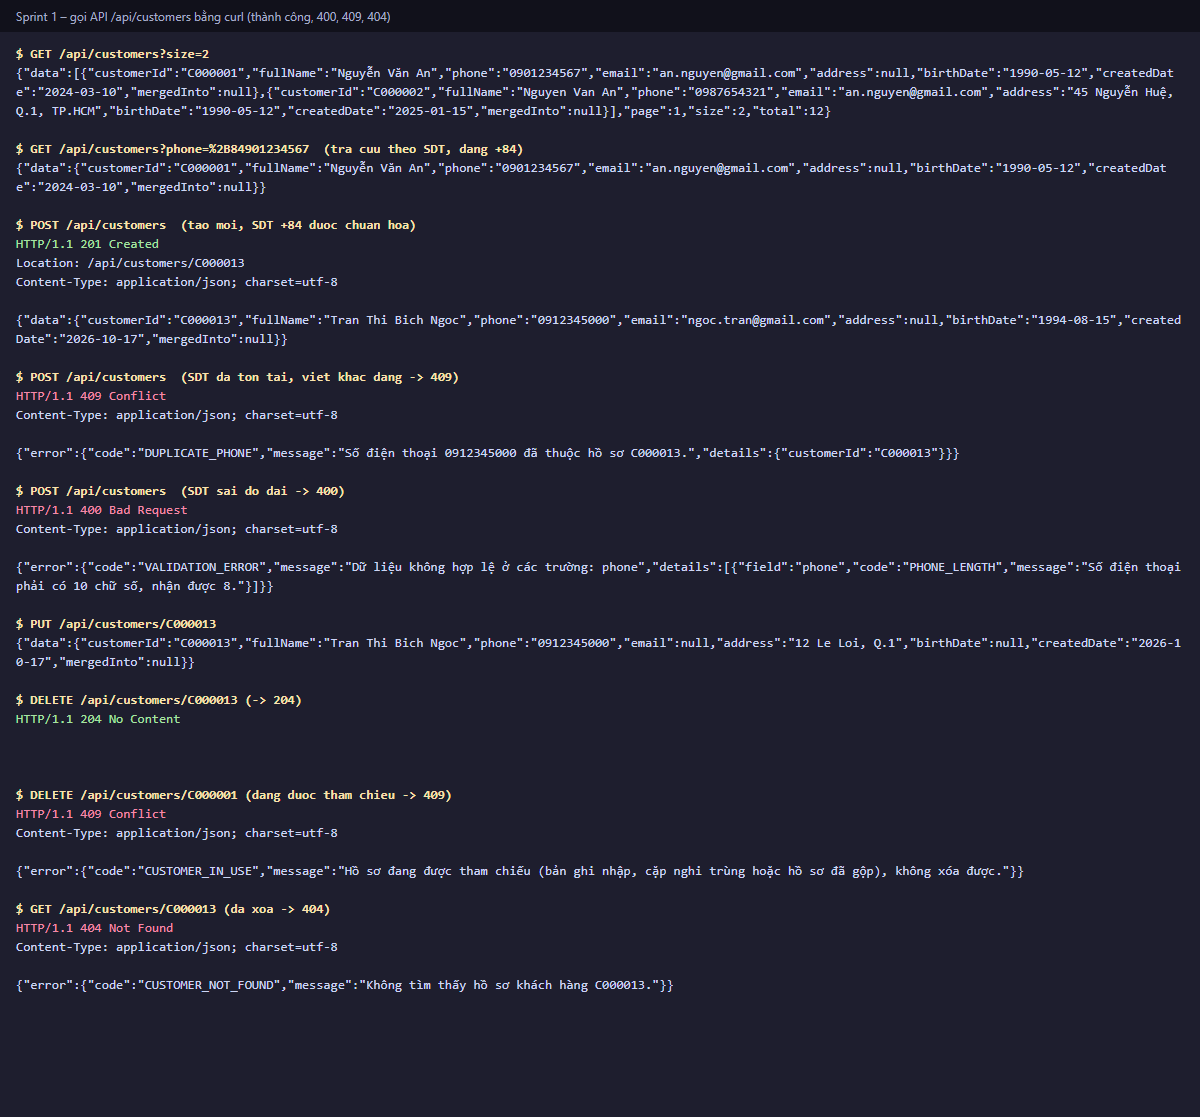
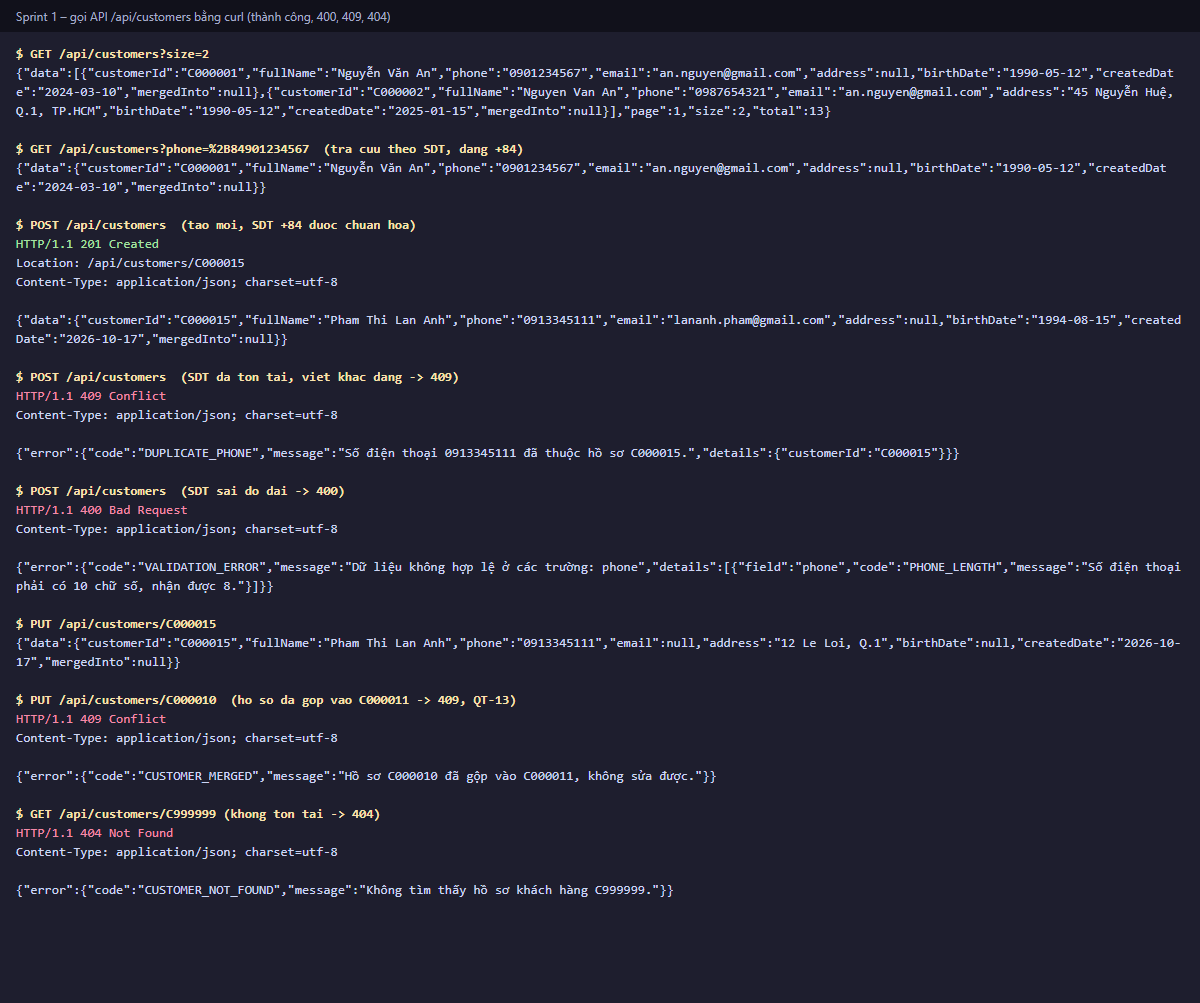
fix: bỏ DELETE khách hàng vì BR5 cấm xóa vật lý, ghi TD-07

diff --git a/src/services/customer.service.js b/src/services/customer.service.js
@@ -95,22 +95,15 @@ class CustomerService {
     return this.getDto(code);
   }
 
-  async remove(code) {
-    const current = await this.get(code);
-    await this.guard(() => this.customers.delete(current.customer_id));
-  }
-
-  /** Đổi lỗi ràng buộc trung tính của repository thành mã nghiệp vụ. */
+  /** Đổi lỗi trùng khóa của CSDL (hai yêu cầu đồng thời cùng SĐT) thành mã nghiệp vụ DUPLICATE_PHONE. */
   async guard(action) {
     try {
       return await action();
     } catch (err) {
-      if (!(err instanceof ConstraintError)) throw err;
-      if (err.kind === 'DUPLICATE') {
+      if (err instanceof ConstraintError && err.kind === 'DUPLICATE') {
         throw new AppError('DUPLICATE_PHONE', 'Số điện thoại đã thuộc một hồ sơ khác.');
       }
-      throw new AppError('CUSTOMER_IN_USE',
-        'Hồ sơ đang được tham chiếu (bản ghi nhập, cặp nghi trùng hoặc hồ sơ đã gộp), không xóa được.');
+      throw err;
     }
   }
 }

diff --git a/tests/customer.service.test.js b/tests/customer.service.test.js
@@ -23,7 +23,6 @@ function fakeRepo(rows = [], hooks = {}) {
       return code;
     }),
     update: async () => {},
-    delete: hooks.delete || (async () => {}),
   };
 }
 
@@ -85,9 +84,8 @@ test('TC-S6 QT-13: hồ sơ đã gộp không sửa được', async () => {
   );
 });
 
-test('TC-S7 xóa hồ sơ đang được tham chiếu bị từ chối (CUSTOMER_IN_USE)', async () => {
-  const referenced = fakeRepo([existing], { delete: async () => { throw new ConstraintError('REFERENCED', '1451'); } });
-  await assert.rejects(() => service(referenced).remove('C000001'), (err) => err.code === 'CUSTOMER_IN_USE');
+test('TC-S7 BR5: dịch vụ không có thao tác xóa hồ sơ khách hàng', () => {
+  assert.equal(typeof service(fakeRepo()).remove, 'undefined');
 });
 
 /* ================= DỮ LIỆU SAI ================= */

diff --git a/src/repositories/customer.repository.js b/src/repositories/customer.repository.js
@@ -1,7 +1,6 @@
 const { ConstraintError } = require('../errors/AppError');
 
 const ER_DUP_ENTRY = 1062;
-const ER_ROW_IS_REFERENCED = 1451;
 const CODE_DIGITS = 6;
 
 const SELECT_CUSTOMER = `
@@ -73,18 +72,8 @@ class CustomerRepository {
     }
   }
 
-  async delete(customerId) {
-    try {
-      await this.db.query('DELETE FROM customer WHERE customer_id = ?', [customerId]);
-    } catch (err) {
-      throw this.translate(err);
-    }
-  }
-
   translate(err) {
-    if (err.errno === ER_DUP_ENTRY) return new ConstraintError('DUPLICATE', err.message);
-    if (err.errno === ER_ROW_IS_REFERENCED) return new ConstraintError('REFERENCED', err.message);
-    return err;
+    return err.errno === ER_DUP_ENTRY ? new ConstraintError('DUPLICATE', err.message) : err;
   }
 }
 

diff --git a/src/errors/AppError.js b/src/errors/AppError.js
@@ -21,8 +21,7 @@ class ValidationError extends AppError {
 
 /**
  * Lỗi ràng buộc của CSDL đã được repository dịch sang dạng trung tính:
- * kind = 'DUPLICATE' (trùng khóa duy nhất) hoặc 'REFERENCED' (còn bản ghi tham chiếu).
- * Service quyết định đây là mã nghiệp vụ nào.
+ * kind = 'DUPLICATE' (trùng khóa duy nhất). Service quyết định đây là mã nghiệp vụ nào.
  */
 class ConstraintError extends Error {
   constructor(kind, message) {

diff --git a/src/routes/customer.routes.js b/src/routes/customer.routes.js
@@ -27,10 +27,7 @@ module.exports = function customerRoutes(customerService) {
     res.json({ data: await customerService.update(req.params.code, req.body) });
   }));
 
-  router.delete('/customers/:code', handle(async (req, res) => {
-    await customerService.remove(req.params.code);
-    res.status(204).end();
-  }));
+  // Không có DELETE: BR5 (QT-13) cấm xóa vật lý hồ sơ khách hàng; hồ sơ trùng chỉ được gộp (UC5).
 
   return router;
 };

diff --git a/src/routes/http-error.js b/src/routes/http-error.js
@@ -8,7 +8,6 @@ const HTTP_BY_CODE = Object.freeze({
   CUSTOMER_NOT_FOUND: 404,
   DUPLICATE_PHONE: 409,
   CUSTOMER_MERGED: 409,
-  CUSTOMER_IN_USE: 409,
 });
 
 /** Bọc handler async: lỗi nghiệp vụ -> JSON { error }, lỗi lạ -> chuyển cho bộ xử lý lỗi cuối (500). */

diff --git a/docs/thay-doi-thiet-ke.md b/docs/thay-doi-thiet-ke.md
@@ -2,7 +2,7 @@
 
 ## Sau phản hồi Bài tập 1 (buổi 8, ngày 17/10/2026)
 
-Điểm BT1: 9.5/10. Hai điểm cần khắc phục được ghi ở TD-01 và TD-02; TD-03 là góp ý về độ dài báo cáo; TD-04 phát sinh khi dựng môi trường.
+Điểm BT1: 9.5/10. Hai điểm cần khắc phục được ghi ở TD-01 và TD-02; TD-03 là góp ý về độ dài báo cáo; TD-04 đến TD-07 phát sinh khi dựng môi trường và hiện thực Sprint 1.
 
 ### TD-01 Bổ sung ngưỡng số cho NFR5
 
@@ -19,8 +19,9 @@
 - Quyết định  : SỬA
 - Lý do       : UC5 gắn với BR4 (mỗi cặp nghi trùng chỉ được quyết định một lần), là quy tắc cần kiểm thử ở BT2;
                 đặc tả phải đọc được ngay trong tài liệu SRS thay vì chỉ trong sơ đồ.
-- Ảnh hưởng   : Mục "Đặc tả chi tiết UC5" đã có trong `docs/srs.md` (luồng ngoại lệ 7a tham chiếu BR4);
-                rà lại cho khớp trang 2 của `docs/usecase.drawio`. File PDF BT1 đã chấm không nộp lại.
+- Ảnh hưởng   : Mục "Đặc tả chi tiết UC5" đã có trong `docs/srs.md` (luồng ngoại lệ 7a tham chiếu BR4) và khớp trang 2 của `docs/usecase.drawio`.
+                File PDF BT1 đã chấm không nộp lại; phần tóm tắt UC5 sẽ được đưa vào báo cáo BT2. Đồng thời sửa nhãn quy tắc ở
+                `docs/api-contract.md` (409 `PAIR_ALREADY_DECIDED`): BR5 → BR4 cho khớp SRS.
 
 ### TD-03 Giữ nguyên độ dài báo cáo BT1 (16 trang)
 
@@ -50,16 +51,22 @@
 - Ảnh hưởng   : `docs/schema.sql` và `migrations/001_init.sql` (hai file giống hệt nhau). Cấu trúc bảng, khóa, chỉ mục không đổi;
                 chạy migrate + seed hai lần cho cùng số dòng (xem `docs/ket-qua-migrate-seed-test.png`).
 
-### TD-06 Thêm endpoint CRUD khách hàng và dùng mã hiển thị làm định danh ở API
+### TD-06 Thêm endpoint quản lý khách hàng, dùng mã hiển thị làm định danh ở API
 
 - Phản hồi của GV : Không có – phát sinh khi chọn entity đầu tiên cho Sprint 1.
 - Quyết định  : SỬA
 - Lý do       : `api-contract.md` BT1 chỉ có E9 (`GET /customers?phone=`). Slide Buổi 8 yêu cầu CRUD đủ ba lớp cho entity chính, và `customer`
                 là entity trung tâm của L7. Định danh trong URL là mã hiển thị (`C000013`), khớp trường `customerId` trong hợp đồng API;
                 khóa số `customer_id` chỉ dùng trong CSDL.
-- Ảnh hưởng   : Thêm `GET /customers`, `GET/PUT/DELETE /customers/{customerId}`, `POST /customers` vào mục 3.5 của `docs/api-contract.md`.
-                Mã lỗi mới: `DUPLICATE_PHONE` (409), `CUSTOMER_NOT_FOUND` (404), `CUSTOMER_MERGED` (409), `CUSTOMER_IN_USE` (409).
+- Ảnh hưởng   : Thêm `GET /customers`, `GET /customers/{customerId}`, `POST /customers`, `PUT /customers/{customerId}` vào mục 3.5 của `docs/api-contract.md`.
+                Mã lỗi mới: `DUPLICATE_PHONE` (409), `CUSTOMER_NOT_FOUND` (404), `CUSTOMER_MERGED` (409).
                 QT-14 và QT-15 (cần biết người gọi) chưa hiện thực ở Sprint 1 vì xác thực JWT làm ở Sprint 2; ghi `[ ]` trong README mục 6.
-                **Mâu thuẫn đã biết với BR5 (QT-13):** BR5 cấm xóa vật lý hồ sơ khách hàng, nhưng `DELETE /customers/{id}` xóa vật lý.
-                Giảm nhẹ: khóa ngoại từ `stg_customer`, `duplicate_pair` và `merged_into_id` chặn xóa mọi hồ sơ đã phát sinh dữ liệu (trả 409 `CUSTOMER_IN_USE`),
-                nên chỉ xóa được hồ sơ vừa tạo nhầm. Hướng xử lý ở Sprint 2: bỏ endpoint hoặc chỉ cho `DATA_MANAGER`, vì khi đó mới có phân quyền.
+
+### TD-07 Không có thao tác xóa hồ sơ khách hàng (giữ BR5)
+
+- Phản hồi của GV : Không có – phát sinh khi hiện thực CRUD.
+- Quyết định  : GIỮ NGUYÊN BR5
+- Lý do       : BR5 (QT-13) cấm xóa vật lý hồ sơ khách hàng; hồ sơ trùng chỉ được gộp và đánh dấu `merged_into_id`. Một bản `DELETE` đã được viết
+                rồi gỡ ra vì nó xóa được cả hồ sơ đã gộp (khóa ngoại chỉ chặn xóa hồ sơ được giữ lại, không chặn xóa hồ sơ đã gộp) và mọi hồ sơ chưa ai tham chiếu.
+- Ảnh hưởng   : CRUD của Sprint 1 là tạo – xem – sửa – liệt kê/tra cứu; không có `DELETE /customers/{id}`. Sửa hồ sơ đã gộp bị chặn (`CUSTOMER_MERGED`).
+                Ghi chú này đã có ở `docs/api-contract.md` mục 3.5. Nếu thầy yêu cầu đủ chữ D, hướng xử lý là thêm cột trạng thái hồ sơ (đổi ERD) – chưa làm.

diff --git a/docs/api-contract.md b/docs/api-contract.md
@@ -272,7 +272,7 @@ Content-Type: application/json
 | 404 | Không có cặp với `pairId` | `PAIR_NOT_FOUND` |
 | 409 | Cặp đã được xử lý trước đó (UC5-7a, US5-AC3, BR4) | `PAIR_ALREADY_DECIDED` |
 
-### 3.5. CRUD hồ sơ khách hàng (Sprint 1, mở rộng E9 – xem `docs/thay-doi-thiet-ke.md` TD-06)
+### 3.5. Quản lý hồ sơ khách hàng (Sprint 1, mở rộng E9 – xem `docs/thay-doi-thiet-ke.md` TD-06)
 
 `customerId` trong URL và trong phản hồi là mã hiển thị (ví dụ `C000013`). Trường nhận vào: `fullName`, `phone`, `email`, `address`, `birthDate`, `createdDate` (quy tắc ở mục 4). SĐT được chuẩn hóa về `0xxxxxxxxx` (QT-02) rồi kiểm tính duy nhất (QT-01).
 
@@ -283,7 +283,6 @@ Content-Type: application/json
 | `GET /api/customers/{customerId}` | Xem một hồ sơ | 200 `{ data }` |
 | `POST /api/customers` | Tạo hồ sơ; `createdDate` mặc định là hôm nay | 201 `{ data }` + `Location` |
 | `PUT /api/customers/{customerId}` | Thay toàn bộ trường sửa được (trường bỏ trống bị xóa giá trị) | 200 `{ data }` |
-| `DELETE /api/customers/{customerId}` | Xóa hồ sơ chưa được tham chiếu (**xem lưu ý BR5 bên dưới**) | 204 |
 
 | Mã | Khi nào | error.code |
 | :---: | :--- | :--- |
@@ -292,9 +291,8 @@ Content-Type: application/json
 | 404 | Không có hồ sơ theo mã hoặc theo SĐT | `CUSTOMER_NOT_FOUND` |
 | 409 | SĐT đã thuộc hồ sơ khác (QT-01); `details.customerId` là hồ sơ đang giữ số đó | `DUPLICATE_PHONE` |
 | 409 | Sửa hồ sơ đã gộp vào hồ sơ khác (QT-13) | `CUSTOMER_MERGED` |
-| 409 | Xóa hồ sơ còn bản ghi nhập, cặp nghi trùng hoặc hồ sơ đã gộp tham chiếu tới | `CUSTOMER_IN_USE` |
 
-**Lưu ý BR5 (QT-13):** quy tắc này cấm xóa vật lý hồ sơ khách hàng trong nghiệp vụ. `DELETE` chỉ có để hoàn thiện CRUD của Sprint 1 và chỉ xóa được hồ sơ không còn ai tham chiếu (khóa ngoại chặn phần còn lại). Từ Sprint 2 endpoint này bị bỏ hoặc giới hạn cho `DATA_MANAGER` – xem TD-06.
+**Không có `DELETE`:** BR5 (QT-13) cấm xóa vật lý hồ sơ khách hàng; hồ sơ trùng chỉ được gộp qua E6 (đánh dấu `mergedInto`). Vì vậy CRUD khách hàng ở Sprint 1 là tạo – xem – sửa – liệt kê/tra cứu (xem TD-06).
 
 Chưa hiện thực ở Sprint 1: xác thực (401/403), QT-14 (phạm vi theo cửa hàng) và QT-15 (che SĐT) – làm cùng E1 ở Sprint 2.
 

diff --git a/README.md b/README.md
@@ -62,9 +62,8 @@ npm test      # node --test, 16 test, không cần CSDL (dùng repository giả)
 - [x] Bản SRS rút gọn (`docs/srs.md`) và Use Case Diagram (`docs/usecase.drawio`) – Bài tập 1 (buổi 3–4)
 - [x] API contract (`docs/api-contract.md`) – Bài tập 1 (buổi 4)
 - [x] Thiết kế kiến trúc (`docs/architecture.drawio`), ERD + SQL DDL (`docs/erd.drawio`, `docs/schema.sql`), wireframe 3 màn hình (`docs/wireframe.png`, gốc `docs/wireframe.drawio`) – Bài tập 1 (buổi 5–6)
-- [x] Sprint 1 (buổi 8): migration 6 bảng theo DDL BT1, seed mẫu chạy lại được, CRUD khách hàng qua 3 lớp, 16 unit test PASS
-- [x] QT-01 (SĐT duy nhất), QT-02 (chuẩn hóa SĐT theo `config/phone_prefixes.json`, NFR5), QT-13 (hồ sơ đã gộp không sửa/xóa)
-- [ ] `DELETE /customers/{id}` đang mâu thuẫn với BR5 (không xóa vật lý hồ sơ) – đã ghi ở TD-06, xử lý ở Sprint 2
+- [x] Sprint 1 (buổi 8): migration 6 bảng theo DDL BT1, seed mẫu chạy lại được, quản lý khách hàng qua 3 lớp (tạo, xem, sửa, liệt kê, tra cứu theo SĐT), 16 unit test PASS
+- [x] QT-01 (SĐT duy nhất), QT-02 (chuẩn hóa SĐT theo `config/phone_prefixes.json`, NFR5), QT-13/BR5 (hồ sơ đã gộp không sửa được; không có thao tác xóa hồ sơ – TD-07)
 - [ ] QT-14 (phạm vi theo cửa hàng) và QT-15 (che SĐT) – cần xác thực JWT, làm ở Sprint 2
 - [ ] Module nhập file và kiểm tra bản ghi khách hàng (buổi 8–10) – chưa có; cần giao dịch InnoDB cho NFR3 và test lỗi giữa chừng
 - [ ] Module duyệt gộp hồ sơ trùng và báo cáo chất lượng (buổi 10–12) – cần test BR4 (hai nhân viên cùng duyệt một cặp)
